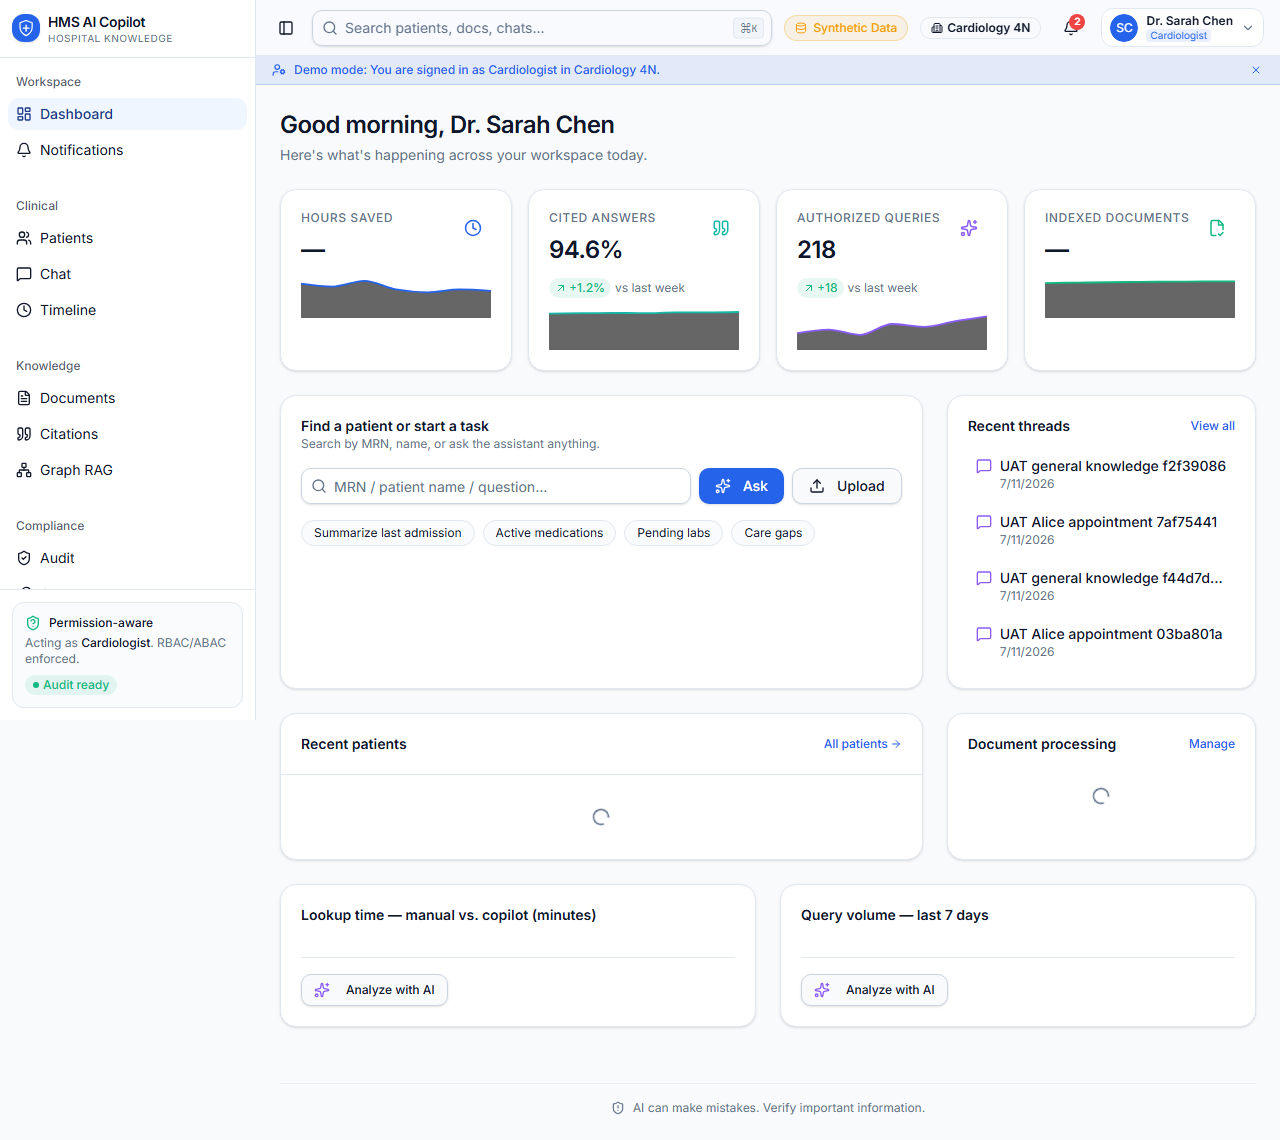
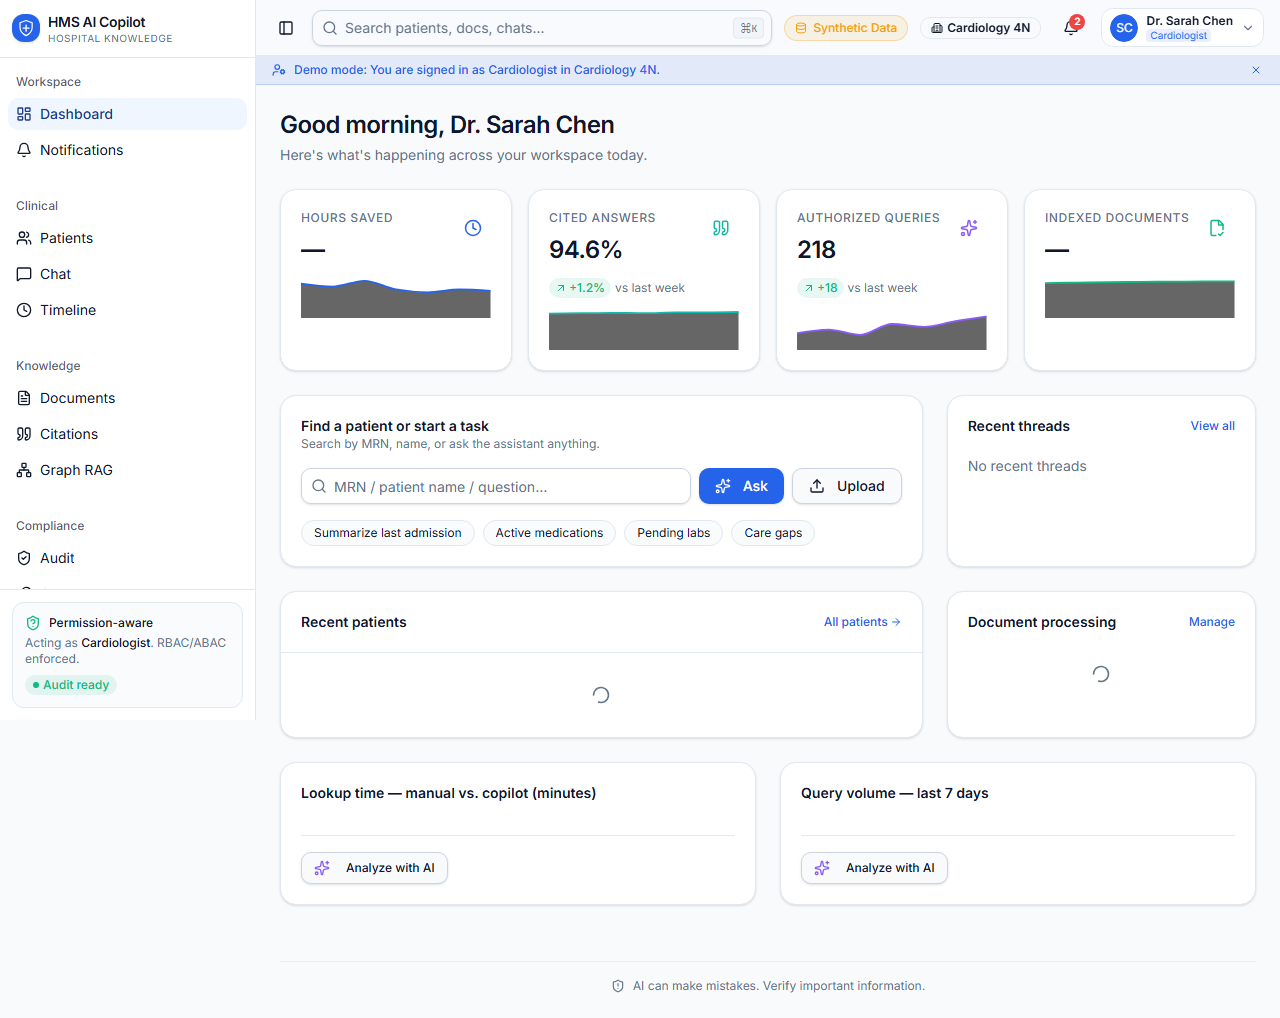
docs: update architecture and security documentation

diff --git a/docs/04-architecture/security-architecture.md b/docs/04-architecture/security-architecture.md
@@ -58,9 +58,23 @@ flowchart TD
 
 ---
 
+## 4. LLM Input/Output Guardrails (AI Engineering Hardening)
+
+To prevent Prompt Injection and PHI Data Leakage to unauthorized topics, the system implements runtime AI Guardrails using the `llm_guard` library:
+
+1.  **Input Guardrails (PromptInjection)**: Scans the user query and context payload before dispatching to the LLM. Blocks queries that attempt to override instructions (e.g., "Ignore previous instructions") or jailbreak the system.
+2.  **Output Guardrails (BanTopics, Deanonymize)**: Scans the generated output from the LLM. 
+    *   **BanTopics**: Prevents the assistant from generating restricted content, such as providing direct medical advice.
+    *   **Deanonymize (Presidio)**: Detects if the output leaks PII/PHI (like SSN or phone numbers) inappropriately.
+
+*Performance note: To minimize Time-To-First-Token (TTFT) impact, these guardrails are wrapped in `asyncio.to_thread` with an explicit `3.0s` timeout. If the guardrail system hangs or is slow, it fails closed (safe refusal).*
+
+---
+
 ## Change Log
 | Version | Date | Author | Change |
 |---|---|---|---|
 | 1.0 | 2026-04-27 | Security Lead | Initial security guidelines |
 | 2.0 | 2026-06-07 | Agent | Restructured into standalone doc |
 | 3.0 | 2026-06-07 | Agent | Realigned to HMS SSO Auth bridge and detailed justification flows |
+| 4.0 | 2026-07-12 | Agent | Added LLM Input/Output Guardrails (AI Engineering Hardening) |
